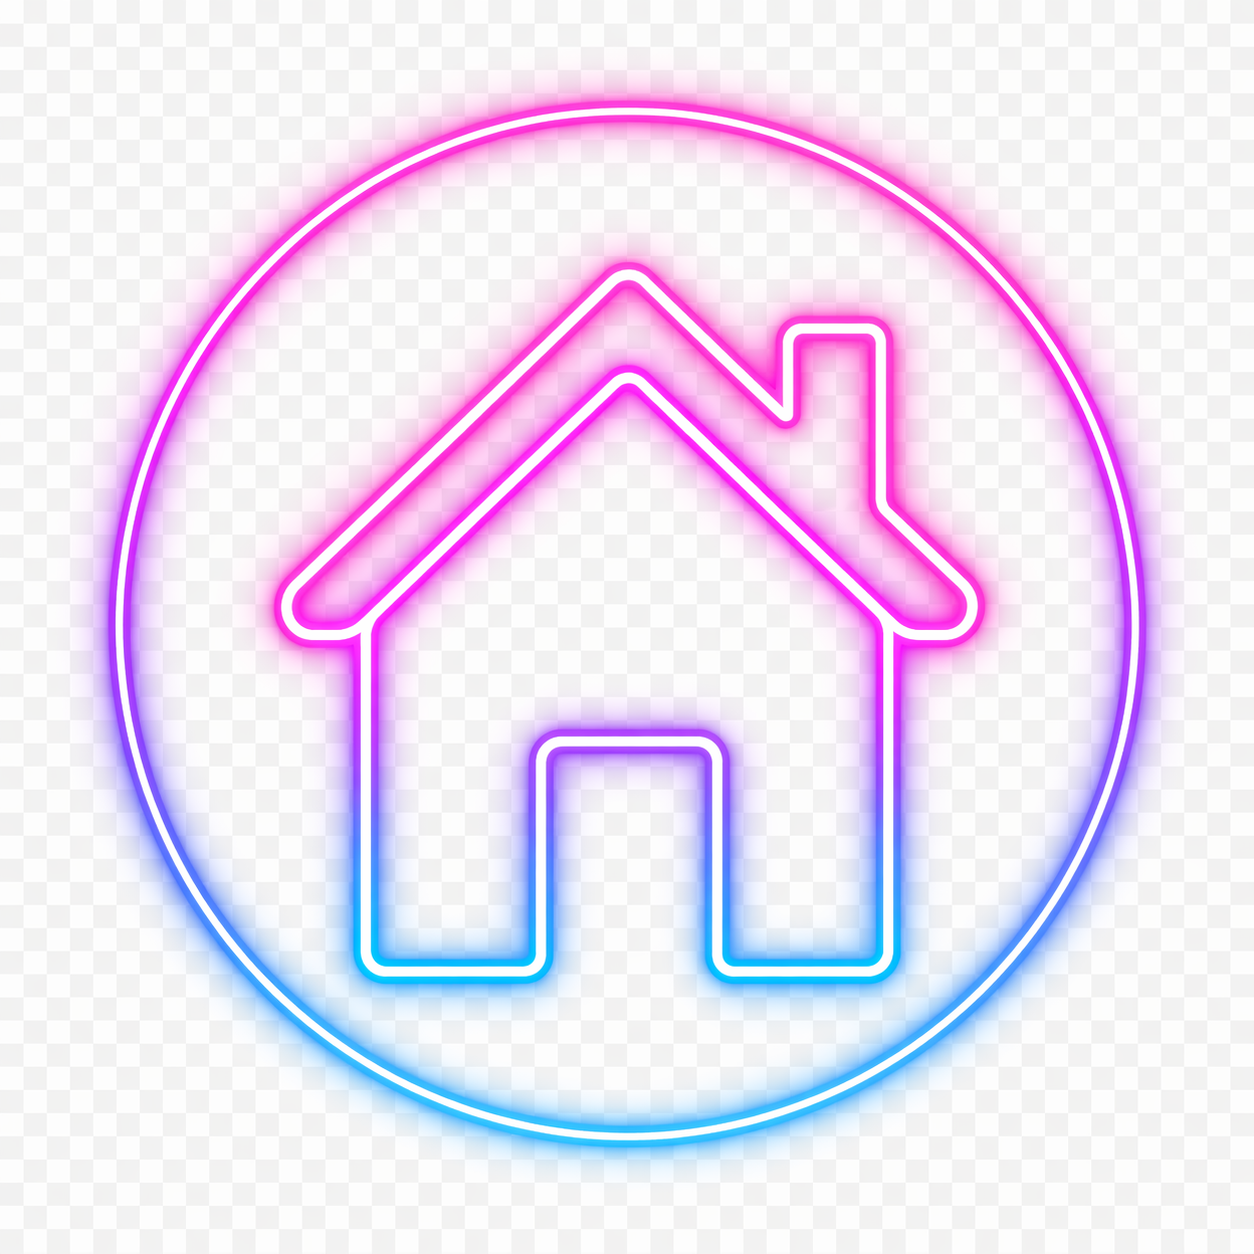
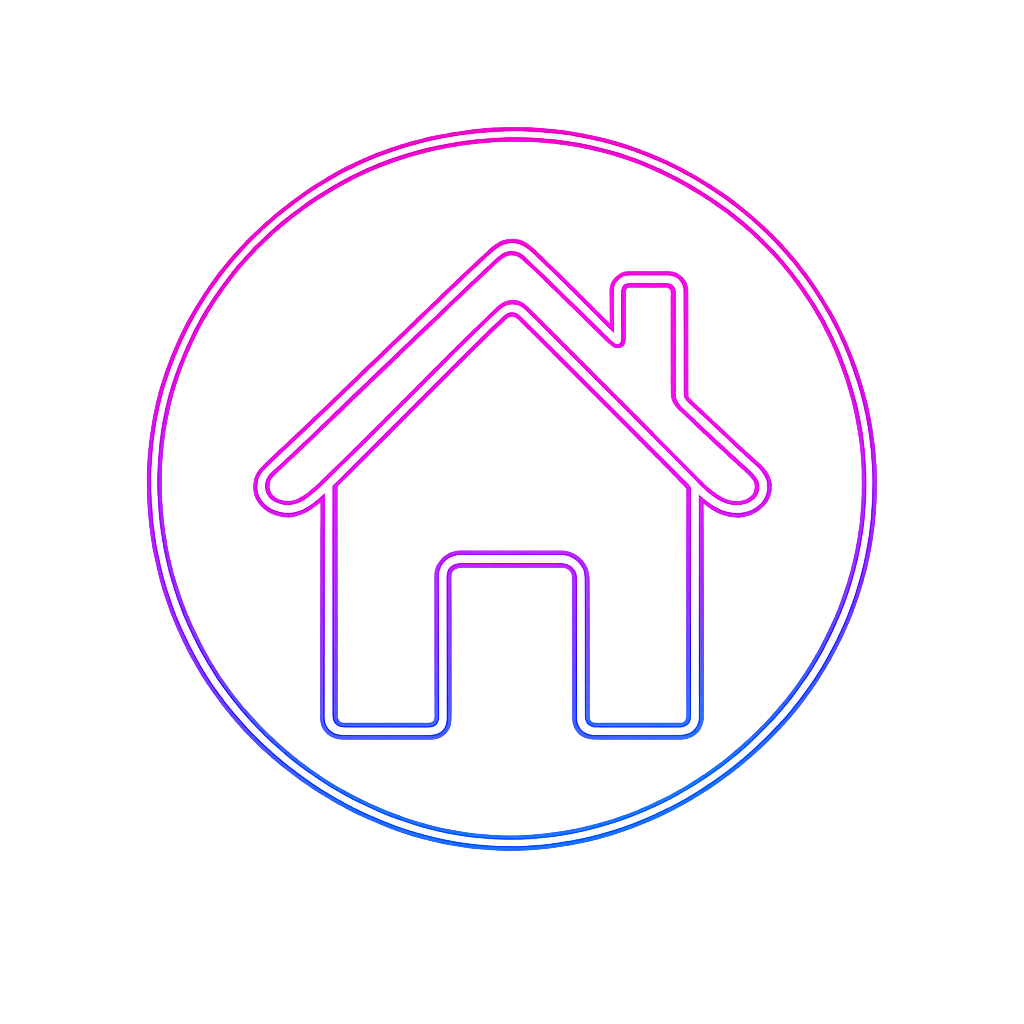
rs

diff --git a/index.html b/index.html
@@ -3,7 +3,7 @@
 <head>
     <meta charset="UTF-8">
     <meta name="viewport" content="width=device-width, initial-scale=1.0, maximum-scale=1.0, user-scalable=no">
-    <title>Klyon Elite | GS Engine v3</title>
+    <title>Klyon Elite | GS Engine v3.1</title>
     <link href="https://fonts.googleapis.com/css2?family=Plus+Jakarta+Sans:wght@300;400;600;800&family=Orbitron:wght@700&display=swap" rel="stylesheet">
     <style>
         :root {
@@ -22,39 +22,36 @@
             overflow-x: hidden;
         }
 
-        /* HEADER */
         header {
             position: fixed; top: 0; width: 100%; height: 60px;
             display: flex; align-items: center; justify-content: center;
             z-index: 1001; background: rgba(3, 3, 11, 0.85);
             backdrop-filter: blur(20px); border-bottom: 1px solid var(--glass-border);
         }
-        header h1 { font-family: 'Orbitron'; font-size: 1rem; color: var(--primary); letter-spacing: 2px; margin: 0; text-shadow: 0 0 10px var(--primary); }
+        header h1 { font-family: 'Orbitron'; font-size: 1rem; color: var(--primary); letter-spacing: 2px; text-shadow: 0 0 10px var(--primary); }
 
-        /* SEÇÕES */
         .section { display: none; width: 100%; min-height: 100vh; padding: 75px 0 120px 0; }
         .section.active { display: block; animation: fadeIn 0.4s ease; }
         @keyframes fadeIn { from { opacity: 0; transform: translateY(10px); } to { opacity: 1; transform: translateY(0); } }
 
         .container { max-width: 600px; margin: auto; padding: 0 15px; }
 
-        /* PERFIL STYLE */
+        /* PERFIL */
         .profile-banner { height: 160px; background: #1a1a2e; background-size: cover; background-position: center; border-radius: 0 0 20px 20px; cursor: pointer; }
         .p-avatar { width: 95px; height: 95px; border-radius: 50%; border: 4px solid var(--bg); object-fit: cover; background: #000; margin-top: -50px; cursor: pointer; box-shadow: 0 5px 15px rgba(0,0,0,0.5); }
         .handle-display { color: var(--primary); font-weight: 600; font-size: 0.9rem; }
+        .p-bio { margin: 12px 0; font-size: 0.95rem; color: #e1e1e6; }
 
-        /* EDIÇÃO */
+        /* INPUTS */
         .edit-box { background: rgba(255,255,255,0.05); border: 1px solid var(--glass-border); padding: 20px; border-radius: 20px; margin-top: 20px; }
         .k-input { width: 100%; background: rgba(255,255,255,0.07); border: 1px solid var(--glass-border); color: #fff; padding: 12px; border-radius: 12px; margin-bottom: 15px; font-family: inherit; }
-        .btn-action { border: 1px solid var(--primary); background: transparent; color: var(--primary); padding: 10px 22px; border-radius: 25px; font-weight: 700; cursor: pointer; transition: 0.2s; }
+        .btn-action { border: 1px solid var(--primary); background: transparent; color: var(--primary); padding: 10px 22px; border-radius: 25px; font-weight: 700; cursor: pointer; }
         .btn-filled { background: var(--primary); color: #000; border: none; }
 
         /* POSTS */
         .post { display: flex; gap: 12px; padding: 18px 0; border-bottom: 1px solid rgba(255,255,255,0.05); }
         .post img.avatar { width: 48px; height: 48px; border-radius: 50%; object-fit: cover; }
         .post-right { flex: 1; }
-        .post-header b { color: #fff; margin-right: 5px; }
-        .post-text { color: #e1e1e6; margin-top: 5px; font-size: 0.95rem; }
         .post-img { width: 100%; border-radius: 18px; margin-top: 12px; border: 1px solid var(--glass-border); }
 
         /* MENU INFERIOR GLASSMORPHISM */
@@ -69,17 +66,15 @@
             display: flex; justify-content: space-around; align-items: center;
             z-index: 1000; box-shadow: 0 10px 30px rgba(0,0,0,0.5);
         }
-        .nav-link { flex: 1; text-align: center; cursor: pointer; transition: 0.3s; height: 100%; display: flex; align-items: center; justify-content: center; }
+        .nav-link { flex: 1; text-align: center; cursor: pointer; height: 100%; display: flex; align-items: center; justify-content: center; }
         .nav-link img { width: 30px; height: 30px; object-fit: contain; opacity: 0.5; transition: 0.3s; }
         .nav-link.active img { opacity: 1; transform: scale(1.15); filter: drop-shadow(0 0 8px var(--primary)); }
 
         #fab {
             position: fixed; bottom: 105px; right: 25px; width: 56px; height: 56px; border-radius: 50%;
-            background: linear-gradient(135deg, var(--primary), #00a2ff); border: none; color: #000; font-size: 30px;
-            box-shadow: 0 8px 20px rgba(0, 242, 255, 0.3); z-index: 999; cursor: pointer;
+            background: var(--primary); border: none; color: #000; font-size: 30px; z-index: 999; cursor: pointer;
         }
 
-        /* MODAIS */
         .modal { position: fixed; top: 0; left: 0; width: 100%; height: 100%; background: var(--bg); z-index: 2000; display: none; padding: 25px; }
         .hidden { display: none; }
     </style>
@@ -89,8 +84,7 @@
 <header><h1>KLYON ELITE</h1></header>
 
 <div id="loginSection" style="height: 100vh; display: flex; align-items: center; justify-content: center; flex-direction: column;">
-    <h1 style="font-family: 'Orbitron'; color: var(--primary); font-size: 2rem;">KLYON</h1>
-    <p style="color: var(--text-muted); margin-bottom: 30px;">A nova era social</p>
+    <h1 style="font-family: 'Orbitron'; color: var(--primary);">KLYON</h1>
     <button onclick="login()" class="btn-action btn-filled" style="padding: 18px 50px;">Entrar com Google</button>
 </div>
 
@@ -100,7 +94,7 @@
 
 <div id="searchSection" class="section">
     <div class="container">
-        <input type="text" placeholder="Pesquisar no Multiverso..." class="k-input" style="border-radius: 30px; padding: 15px 25px;">
+        <input type="text" placeholder="Pesquisar..." class="k-input" style="border-radius: 30px;">
         <div id="userResults"></div>
     </div>
 </div>
@@ -113,22 +107,22 @@
     <div class="container">
         <div style="display: flex; justify-content: space-between; align-items: flex-end;">
             <img id="p-photo" src="" class="p-avatar" onclick="document.getElementById('avatarFile').click()">
-            <button class="btn-action" onclick="toggleEdit(true)">Editar</button>
+            <button class="btn-action" onclick="toggleEdit(true)">Editar Perfil</button>
         </div>
         
         <div id="view-mode" style="margin-top: 15px;">
-            <h2 id="p-name" style="margin: 0;">Nome</h2>
-            <span class="handle-display">@<span id="p-handle">usuário</span></span>
-            <p id="p-bio" class="p-bio">Status da bio...</p>
+            <h2 id="p-name" style="margin: 0;">Carregando...</h2>
+            <span class="handle-display">@<span id="p-handle">...</span></span>
+            <p id="p-bio" class="p-bio"></p>
         </div>
 
         <div id="edit-mode" class="edit-box" style="display: none;">
             <input type="text" id="in-name" class="k-input" placeholder="Nome">
-            <input type="text" id="in-handle" class="k-input" placeholder="seu_nome_unico">
-            <textarea id="in-bio" class="k-input" placeholder="Sua bio épica..."></textarea>
+            <input type="text" id="in-handle" class="k-input" placeholder="seu_handle">
+            <textarea id="in-bio" class="k-input" placeholder="Sua bio..."></textarea>
             <div style="display: flex; gap: 10px;">
                 <button class="btn-action btn-filled" style="flex: 1" onclick="saveEliteProfile()">Salvar</button>
-                <button class="btn-action" onclick="toggleEdit(false)">Cancelar</button>
+                <button class="btn-action" onclick="toggleEdit(false)">Sair</button>
             </div>
         </div>
         
@@ -138,34 +132,28 @@
 
 <div id="postModal" class="modal">
     <input type="file" id="postFile" class="hidden" accept="image/*" onchange="previewPost(this)">
-    <div style="display:flex; justify-content: space-between; align-items:center;">
-        <button onclick="closeModal()" style="background:none; border:none; color:#fff; font-size: 1rem;">Cancelar</button>
-        <div style="display:flex; gap:20px; align-items:center;">
-            <span onclick="document.getElementById('postFile').click()" style="cursor:pointer; font-size:1.6rem;">🖼</span>
+    <div style="display:flex; justify-content: space-between;">
+        <button onclick="closeModal()" style="background:none; border:none; color:#fff;">Voltar</button>
+        <div>
+            <span onclick="document.getElementById('postFile').click()" style="cursor:pointer; font-size:1.5rem; margin-right:15px;">🖼</span>
             <button id="pubBtn" class="btn-action btn-filled" onclick="publishElitePost()">Postar</button>
         </div>
     </div>
-    <textarea id="postText" class="k-input" style="height: 180px; margin-top: 25px; background:none; border:none; font-size: 1.3rem;" placeholder="O que há de novo?"></textarea>
-    <img id="post-preview" class="post-img" style="display:none; max-height: 280px; object-fit: cover;">
+    <textarea id="postText" class="k-input" style="height: 150px; border:none; font-size: 1.2rem; margin-top:20px;" placeholder="No que está pensando?"></textarea>
+    <img id="post-preview" class="post-img" style="display:none;">
 </div>
 
 <button id="fab" onclick="document.getElementById('postModal').style.display='block'" style="display:none;">+</button>
 
 <nav class="bottom-nav" id="navBar" style="display:none;">
-    <div class="nav-link active" onclick="navigate('feedSection', this)">
-        <img src="home.png" alt="Home">
-    </div>
-    <div class="nav-link" onclick="navigate('searchSection', this)">
-        <img src="buscar.png" alt="Busca">
-    </div>
-    <div class="nav-link" onclick="navigate('profileSection', this)">
-        <img src="perfil.png" alt="Perfil">
-    </div>
+    <div class="nav-link active" onclick="navigate('feedSection', this)"><img src="home.png"></div>
+    <div class="nav-link" onclick="navigate('searchSection', this)"><img src="buscar.png"></div>
+    <div class="nav-link" onclick="navigate('profileSection', this)"><img src="perfil.png"></div>
 </nav>
 
 <script type="module">
 import { initializeApp } from "https://www.gstatic.com/firebasejs/12.12.1/firebase-app.js";
-import { getAuth, GoogleAuthProvider, signInWithPopup, onAuthStateChanged, signOut } from "https://www.gstatic.com/firebasejs/12.12.1/firebase-auth.js";
+import { getAuth, GoogleAuthProvider, signInWithPopup, onAuthStateChanged } from "https://www.gstatic.com/firebasejs/12.12.1/firebase-auth.js";
 import { getFirestore, doc, getDoc, setDoc, collection, addDoc, query, orderBy, onSnapshot, serverTimestamp, updateDoc, increment, where, runTransaction } from "https://www.gstatic.com/firebasejs/12.12.1/firebase-firestore.js";
 import { getStorage, ref, uploadBytes, getDownloadURL } from "https://www.gstatic.com/firebasejs/12.12.1/firebase-storage.js";
 
@@ -182,7 +170,7 @@ const db = getFirestore(app);
 const storage = getStorage(app);
 const provider = new GoogleAuthProvider();
 
-let uData = null;
+let uData = null; // Variável Global que o erro reclamava
 let postFileObj = null;
 
 // --- NAVEGAÇÃO ---
@@ -191,7 +179,7 @@ window.navigate = (id, el) => {
     document.querySelectorAll('.nav-link').forEach(n => n.classList.remove('active'));
     document.getElementById(id).classList.add('active');
     el.classList.add('active');
-    if(id === 'profileSection') renderProfile(auth.currentUser.uid);
+    if(id === 'profileSection' && auth.currentUser) renderProfile(auth.currentUser.uid);
 };
 
 window.closeModal = () => {
@@ -201,8 +189,9 @@ window.closeModal = () => {
     postFileObj = null;
 };
 
-// --- AUTH ---
+// --- AUTH & SYNC ---
 window.login = () => signInWithPopup(auth, provider);
+
 onAuthStateChanged(auth, async (user) => {
     if (user) {
         document.getElementById("loginSection").style.display = "none";
@@ -214,18 +203,20 @@ onAuthStateChanged(auth, async (user) => {
     } else {
         document.getElementById("loginSection").style.display = "flex";
         document.getElementById("navBar").style.display = "none";
-        document.getElementById("fab").style.display = "none";
     }
 });
 
 async function syncUser(user) {
-    const snap = await getDoc(doc(db, "users", user.uid));
+    const userRef = doc(db, "users", user.uid);
+    const snap = await getDoc(userRef);
     if(!snap.exists()) {
         const handle = "elite_" + user.uid.substring(0,4);
-        uData = { name: user.displayName, photo: user.photoURL, handle, bio: "Membro Klyon Elite", banner: "" };
-        await setDoc(doc(db, "users", user.uid), uData);
+        uData = { name: user.displayName, photo: user.photoURL, handle, bio: "Nova Elite", banner: "" };
+        await setDoc(userRef, uData);
         await setDoc(doc(db, "handles", handle), { uid: user.uid });
-    } else uData = snap.data();
+    } else {
+        uData = snap.data();
+    }
 }
 
 // --- PERFIL & STORAGE ---
@@ -241,44 +232,48 @@ window.uploadToStorage = async (input, type) => {
 };
 
 window.toggleEdit = (show) => {
+    if(!uData) return; // Segurança extra contra undefined
     document.getElementById('view-mode').style.display = show ? 'none' : 'block';
     document.getElementById('edit-mode').style.display = show ? 'block' : 'none';
     if(show) {
-        document.getElementById('in-name').value = uData.name;
-        document.getElementById('in-handle').value = uData.handle;
-        document.getElementById('in-bio').value = uData.bio;
+        document.getElementById('in-name').value = uData.name || "";
+        document.getElementById('in-handle').value = uData.handle || "";
+        document.getElementById('in-bio').value = uData.bio || "";
     }
 };
 
 window.saveEliteProfile = async () => {
+    if(!uData) return;
     const newName = document.getElementById('in-name').value;
     const newBio = document.getElementById('in-bio').value;
-    const newHandle = document.getElementById('in-handle').value.toLowerCase().replace(/[^a-z0-9_]/g, '');
+    const newHandle = document.getElementById('in-handle').value.toLowerCase().trim().replace(/[^a-z0-9_]/g, '');
     const oldHandle = uData.handle;
 
     try {
         await runTransaction(db, async (t) => {
             if(newHandle !== oldHandle) {
                 const hSnap = await t.get(doc(db, "handles", newHandle));
-                if(hSnap.exists()) throw "Este @ já está em uso!";
+                if(hSnap.exists()) throw "Esse @ já existe!";
                 t.set(doc(db, "handles", newHandle), { uid: auth.currentUser.uid });
-                t.delete(doc(db, "handles", oldHandle));
+                if(oldHandle) t.delete(doc(db, "handles", oldHandle));
             }
             t.update(doc(db, "users", auth.currentUser.uid), { name: newName, bio: newBio, handle: newHandle });
         });
         uData.name = newName; uData.bio = newBio; uData.handle = newHandle;
         toggleEdit(false); renderProfile(auth.currentUser.uid);
+        alert("Salvo!");
     } catch(e) { alert(e); }
 };
 
 async function renderProfile(uid) {
     const snap = await getDoc(doc(db, "users", uid));
     const d = snap.data();
+    if(!d) return;
     document.getElementById('p-name').innerText = d.name;
     document.getElementById('p-handle').innerText = d.handle;
-    document.getElementById('p-bio').innerText = d.bio;
+    document.getElementById('p-bio').innerText = d.bio || "";
     document.getElementById('p-photo').src = d.photo;
-    document.getElementById('p-banner').style.backgroundImage = d.banner ? `url(${d.banner})` : 'linear-gradient(45deg, #1a1a2e, #000)';
+    document.getElementById('p-banner').style.backgroundImage = d.banner ? `url(${d.banner})` : 'none';
     
     onSnapshot(query(collection(db, "posts"), where("uid", "==", uid), orderBy("createdAt", "desc")), s => {
         const div = document.getElementById('myPosts'); div.innerHTML = "";
@@ -291,8 +286,8 @@ window.previewPost = (input) => {
     postFileObj = input.files[0];
     const reader = new FileReader();
     reader.onload = e => { 
-        const img = document.getElementById('post-preview');
-        img.src = e.target.result; img.style.display = 'block';
+        document.getElementById('post-preview').src = e.target.result;
+        document.getElementById('post-preview').style.display = 'block';
     };
     reader.readAsDataURL(postFileObj);
 };
@@ -301,11 +296,11 @@ window.publishElitePost = async () => {
     const txt = document.getElementById('postText').value;
     const btn = document.getElementById('pubBtn');
     if(!txt && !postFileObj) return;
-    btn.disabled = true; btn.innerText = "...";
+    btn.disabled = true;
     
     let imgUrl = "";
     if(postFileObj) {
-        const sRef = ref(storage, `posts/${auth.currentUser.uid}_${Date.now()}`);
+        const sRef = ref(storage, `posts/${Date.now()}`);
         await uploadBytes(sRef, postFileObj);
         imgUrl = await getDownloadURL(sRef);
     }
@@ -319,7 +314,7 @@ window.publishElitePost = async () => {
         likes: 0, likedBy: [],
         createdAt: serverTimestamp()
     });
-    closeModal(); btn.disabled = false; btn.innerText = "Postar";
+    closeModal(); btn.disabled = false;
 };
 
 function loadFeed() {
@@ -335,23 +330,23 @@ function createUI(id, p) {
     div.innerHTML = `
         <img class="avatar" src="${p.userPhoto}">
         <div class="post-right">
-            <div class="post-header"><b>${p.userName}</b> <span style="color:var(--primary); font-size:0.8rem;">@${p.userHandle}</span></div>
+            <div class="post-header"><b>${p.userName}</b> <span style="color:var(--primary)">@${p.userHandle}</span></div>
             <div class="post-text">${p.text}</div>
             ${p.img ? `<img src="${p.img}" class="post-img">` : ''}
-            <div style="margin-top:12px; cursor:pointer; font-size:0.9rem;" onclick="likePost('${id}')">🔥 ${p.likes || 0}</div>
+            <div style="margin-top:10px; cursor:pointer;" onclick="likePost('${id}')">🔥 ${p.likes || 0}</div>
         </div>`;
     return div;
 }
 
 window.likePost = async (id) => {
-    const postRef = doc(db, "posts", id);
-    const snap = await getDoc(postRef);
+    const ref = doc(db, "posts", id);
+    const snap = await getDoc(ref);
     const likedBy = snap.data().likedBy || [];
     const myUid = auth.currentUser.uid;
     if(likedBy.includes(myUid)) {
-        await updateDoc(postRef, { likes: increment(-1), likedBy: likedBy.filter(u => u !== myUid) });
+        await updateDoc(ref, { likes: increment(-1), likedBy: likedBy.filter(u => u !== myUid) });
     } else {
-        await updateDoc(postRef, { likes: increment(1), likedBy: [...likedBy, myUid] });
+        await updateDoc(ref, { likes: increment(1), likedBy: [...likedBy, myUid] });
     }
 };
 </script>
